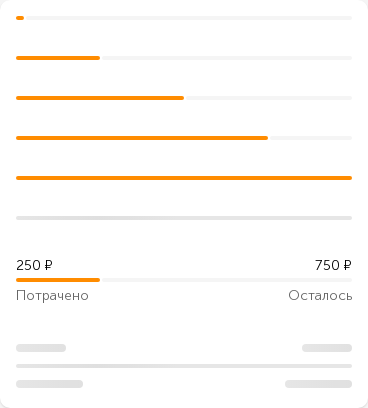
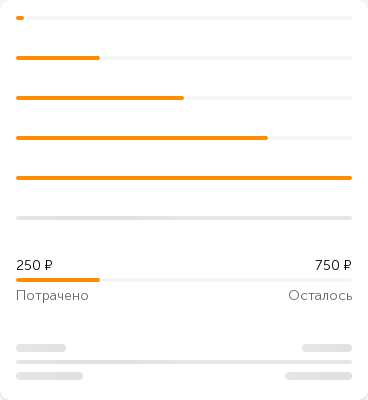
feat: refactor stub branch

diff --git a/packages/mobile/src/main/ts/extended-progress-bar/ExtendedProgressBar.tsx b/packages/mobile/src/main/ts/extended-progress-bar/ExtendedProgressBar.tsx
@@ -20,70 +20,34 @@ export const ExtendedProgressBar: FC<ExtendedProgressBarProps> = ({
   titleStart,
   titleEnd,
   stub = false,
-}) => stub ? (
-  <Spacer size="xs">
-    {titleStart || titleEnd ? (
-      <Flex justify="space-between">
-        {titleStart ? (
-          <FlexItem width={0.15}>
-            <Text size="s" display="block" compact stub/>
-          </FlexItem>
-        ) : (
-          null
-        )}
-        {titleEnd ? (
-          <FlexItem width={0.15}>
-            <Text size="s" display="block" compact stub/>
-          </FlexItem>
-        ) : (
-          null
-        )}
-      </Flex>
-    ) : (
-      null
-    )}
-    <Stub height="4px" width={1} r={2} />
-    {titleStart || titleEnd ? (
-      <Flex justify="space-between">
-        {titleStart ? (
-          <FlexItem width={0.2}>
-            <Text size="s" display="block" compact stub/>
-          </FlexItem>
-        ) : (
-          null
-        )}
-        {titleEnd ? (
-          <FlexItem width={0.2}>
-            <Text size="s" display="block" compact stub/>
-          </FlexItem>
-        ) : (
-          null
-        )}
-      </Flex>
-    ) : (
-      null
-    )}
-  </Spacer>
-) : (
+}) => (
   <Spacer size="xxs">
     {titleStart || titleEnd ? (
       <Flex justify='space-between'>
-        <FlexItem>
+        <FlexItem width={stub ? 0.15 : undefined}>
           {titleStart ? (
-            <Text size="s" compact bold={false}>
-              {value}
-              {valueAffix ? ` ${valueAffix}` : ''}
-            </Text>
+            <Text
+              size="s"
+              bold={false}
+              stub={stub}
+              display={stub ? 'block' : undefined}
+              children={stub ? undefined : value + (valueAffix ? ` ${valueAffix}` : '')}
+              compact
+            />
           ) : (
             null
           )}
         </FlexItem>
-        <FlexItem>
+        <FlexItem width={stub ? 0.15 : undefined}>
           {titleEnd ? (
-            <Text size="s" compact bold={false}>
-              {maxValue - value}
-              {valueAffix ? ` ${valueAffix}` : ''}
-            </Text>
+            <Text
+              size="s"
+              bold={false}
+              stub={stub}
+              display={stub ? 'block' : undefined}
+              children={stub ? undefined : (maxValue - value) + (valueAffix ? ` ${valueAffix}` : '')}
+              compact
+            />
           ) : (
             null
           )}
@@ -94,13 +58,17 @@ export const ExtendedProgressBar: FC<ExtendedProgressBarProps> = ({
     )}
     <Flex>
       <FlexItem
-        width={value / maxValue}
+        width={stub ? 1 : value / maxValue}
         minWidth={2}
         transition="width 300ms cubic-bezier(0.4, 0.0, 0.2, 1)"
       >
-        <Card height="4px" width={1} r={2} bg="#FF8C00"/>
+        {stub ? (
+          <Stub height="4px" width={1} r={2} />
+        ) : (
+          <Card height="4px" width={1} r={2} bg="#FF8C00"/>
+        )}
       </FlexItem>
-      {value < maxValue ? (
+      {!stub && (value < maxValue) ? (
         <FlexItem ml="2px" grow={1} minWidth={2}>
           <Card height="4px" width={1} r={2} bg="#F5F5F5"/>
         </FlexItem>
@@ -110,20 +78,32 @@ export const ExtendedProgressBar: FC<ExtendedProgressBarProps> = ({
     </Flex>
     {titleStart || titleEnd ? (
       <Flex justify='space-between'>
-        <FlexItem>
+        <FlexItem width={stub ? 0.2 : undefined}>
           {titleStart ? (
-            <Text size="s" compact bold={false} color="support">
-              {titleStart}
-            </Text>
+            <Text
+              size="s"
+              bold={false}
+              stub={stub}
+              color="support"
+              display={stub ? 'block' : undefined}
+              children={titleStart}
+              compact
+            />
           ) : (
             null
           )}
         </FlexItem>
-        <FlexItem>
+        <FlexItem width={stub ? 0.2 : undefined}>
           {titleEnd ? (
-            <Text size="s" compact bold={false} color="support">
-              {titleEnd}
-            </Text>
+            <Text
+              size="s"
+              bold={false}
+              stub={stub}
+              color="support"
+              display={stub ? 'block' : undefined}
+              children={titleEnd}
+              compact
+            />
           ) : (
             null
           )}

diff --git a/packages/desktop/src/main/ts/extended-progress-bar/ExtendedProgressBar.tsx b/packages/desktop/src/main/ts/extended-progress-bar/ExtendedProgressBar.tsx
@@ -20,41 +20,20 @@ export const ExtendedProgressBar: FC<ExtendedProgressBarProps> = ({
   titleStart,
   titleEnd,
   stub = false,
-}) => stub ? (
-  <Spacer size="xs">
-    <Stub height={2} width={1} r={4} />
-    {titleStart || titleEnd ? (
-      <Flex justify="space-between">
-        {titleStart ? (
-          <FlexItem width={0.15}>
-            <Text size="s" display="block" stub/>
-          </FlexItem>
-        ) : (
-          null
-        )}
-        {titleEnd ? (
-          <FlexItem width={0.15}>
-            <Text size="s" display="block" stub/>
-          </FlexItem>
-        ) : (
-          null
-        )}
-      </Flex>
-    ) : (
-      null
-    )}
-  </Spacer>
-) : (
+}) => (
   <Spacer size="xs">
     <Flex>
       <FlexItem
-        width={value / maxValue}
+        width={stub ? 1 : value / maxValue}
         minWidth={2}
         transition="width 300ms cubic-bezier(0.4, 0.0, 0.2, 1)"
-      >
-        <Card height={2} width={1} r={4} bg="#FF8C00"/>
-      </FlexItem>
-      {value < maxValue ? (
+        children={stub ? (
+          <Stub height={2} width={1} r={4} />
+        ) : (
+          <Card height={2} width={1} r={4} bg="#FF8C00"/>
+        )}
+      />
+      {!stub && (value < maxValue) ? (
         <FlexItem ml={1} grow={1} minWidth={2}>
           <Card height={2} width={1} r={4} bg="#F5F5F5"/>
         </FlexItem>
@@ -64,8 +43,10 @@ export const ExtendedProgressBar: FC<ExtendedProgressBarProps> = ({
     </Flex>
     {titleStart || titleEnd ? (
       <Flex mt={2} justify="space-between">
-        <FlexItem>
-          {titleStart ? (
+        <FlexItem width={stub ? 0.15 : undefined}>
+          {stub && titleStart ? (
+            <Text size="s" display="block" stub/>
+          ) : titleStart ? (
             <Paragraph size="s">
               <Text color="support">{titleStart}: </Text>
               <Text>
@@ -73,12 +54,14 @@ export const ExtendedProgressBar: FC<ExtendedProgressBarProps> = ({
                 {valueAffix ? ` ${valueAffix}` : ''}
               </Text>
             </Paragraph>
-          ): (
+          ) : (
             null
           )}
         </FlexItem>
-        <FlexItem>
-          {titleEnd ? (
+        <FlexItem width={stub ? 0.15 : undefined}>
+          {stub && titleEnd ? (
+            <Text size="s" display="block" stub/>
+          ) : titleEnd ? (
             <Paragraph size="s">
               <Text color="support">{titleEnd}: </Text>
               <Text>

diff --git a/packages/desktop/src/main/ts/extended-progress-bar/ExtendedProgressBar.md b/packages/desktop/src/main/ts/extended-progress-bar/ExtendedProgressBar.md
@@ -1,12 +1,13 @@
 ```jsx
 <Block>
   <BlockContent>
-    <Spacer size="l">
+    <Spacer size="xl">
       <ExtendedProgressBar value={0} />
       <ExtendedProgressBar value={0.25} />
       <ExtendedProgressBar value={0.5} />
       <ExtendedProgressBar value={0.75} />
       <ExtendedProgressBar value={1} />
+      <ExtendedProgressBar stub />
       <ExtendedProgressBar
         value={250}
         maxValue={1000}
@@ -14,7 +15,6 @@
         titleEnd="Осталось"
         valueAffix="\u20BD"
       />
-      <ExtendedProgressBar stub />
       <ExtendedProgressBar stub titleStart="stub" titleEnd="stub" />
     </Spacer>
   </BlockContent>
